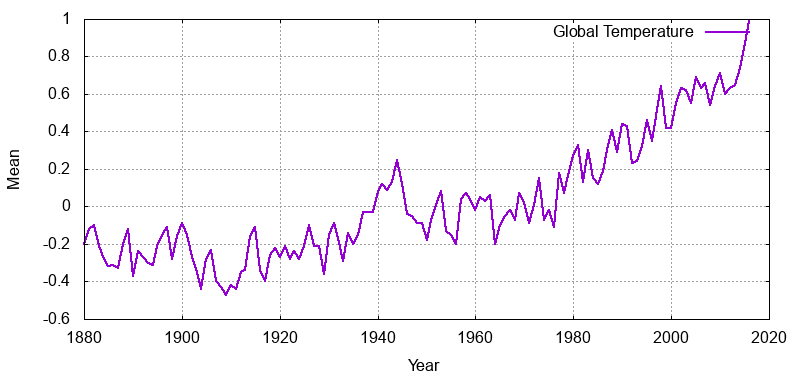
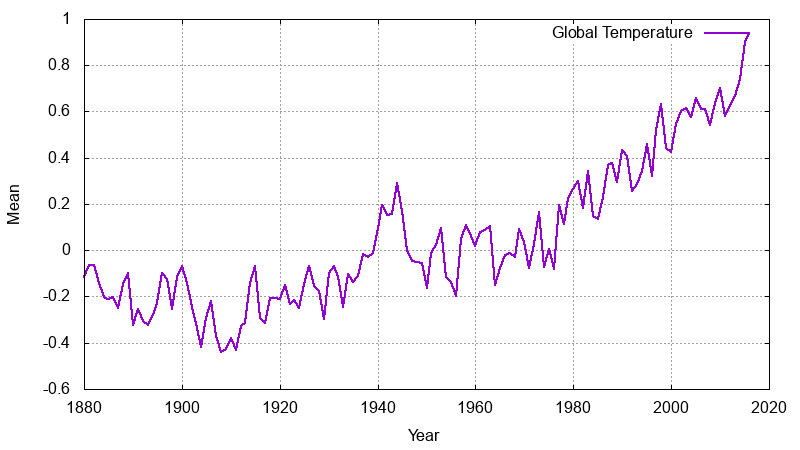
examples/ files, use multiple data sets example added

diff --git a/README.md b/README.md
@@ -29,7 +29,7 @@ In this example we will plot the Global Temperature Time Series.
 
 ```
 # fetch yearly sample data from https://datahub.io/core/global-temp
-curl -L https://datahub.io/core/global-temp/r/annual.csv | grep GISTEMP > global-temp-data.csv
+curl -L https://datahub.io/core/global-temp/r/annual.csv > global-temp-data.csv
 
 # generate the plot
 docker run --rm -v $(pwd):/work remuslazar/gnuplot -e \
@@ -38,13 +38,14 @@ docker run --rm -v $(pwd):/work remuslazar/gnuplot -e \
   set datafile separator ',';
   set term png size 800,380;
   set output 'global-temp.png';
-  plot 'global-temp-data.csv' using 2:3 title 'Global Temperature' with lines linewidth 2;"
+  plot 'global-temp-data.csv' every 2::0 skip 1 using 2:3 title 'Global Temperature' with lines linewidth 2;"
 ```
 
-This will product a PNG file called `global-temp.png` in the
-`cwd`.
+This will product a PNG file called `global-temp.png` in the `cwd`.
 
 ![Global Temperature Example Plot](https://raw.githubusercontent.com/remuslazar/docker-gnuplot/master/example/global-temp.png)
+
+See also the files in the `examples/` folder for how to plot multiple data sets.
 
 ## Debugging
 
